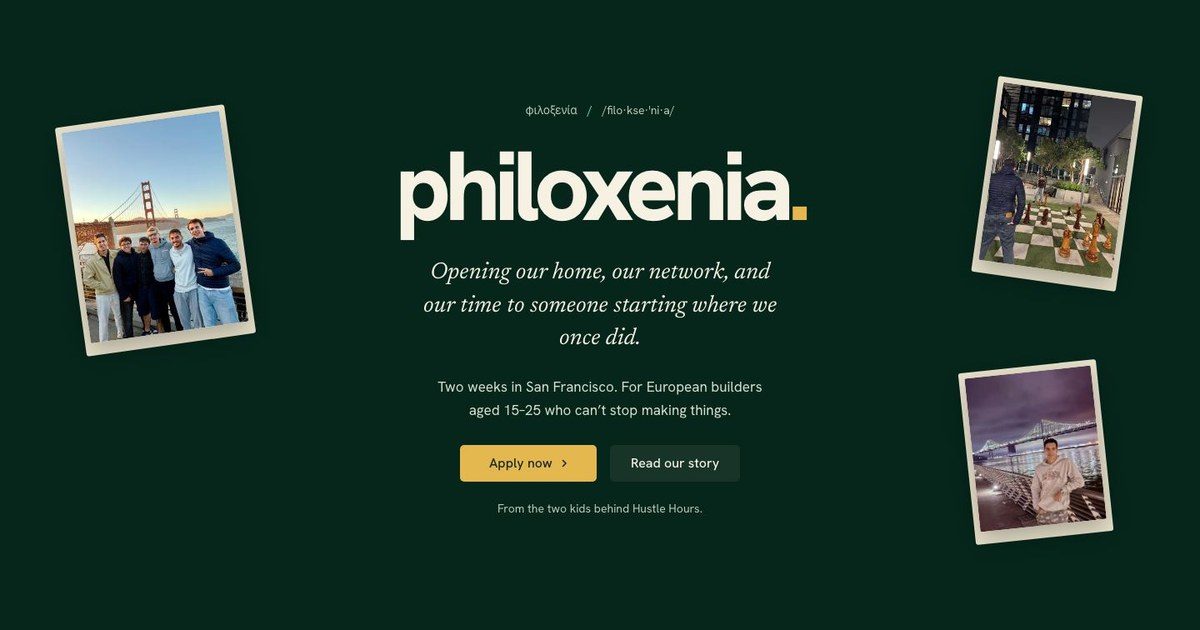
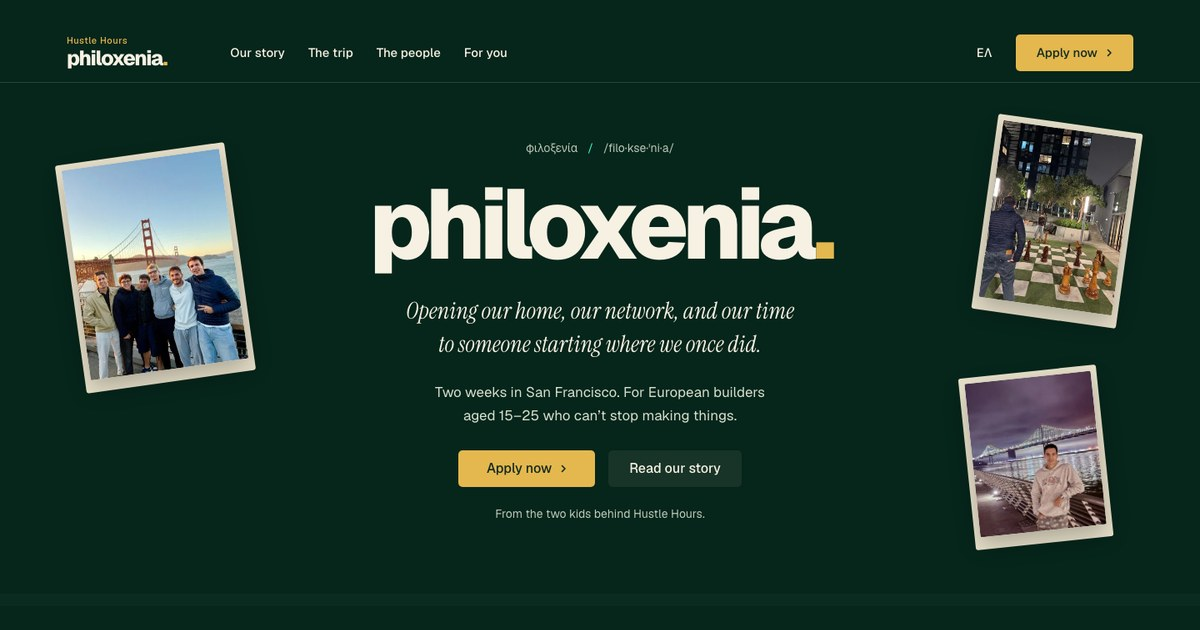
changes

diff --git a/src/styles/global.css b/src/styles/global.css
@@ -1,16 +1,20 @@
 @import "tailwindcss";
 
 @font-face {
-  font-family: "Newsreader"; font-style: normal; font-weight: 400 700; font-display: swap;
-  src: url("@fontsource-variable/newsreader/files/newsreader-latin-wght-normal.woff2") format("woff2");
+  font-family: "Geist"; font-style: normal; font-weight: 100 900; font-display: swap;
+  src: url("@fontsource-variable/geist/files/geist-latin-wght-normal.woff2") format("woff2");
 }
 @font-face {
-  font-family: "Newsreader"; font-style: italic; font-weight: 400 700; font-display: swap;
-  src: url("@fontsource-variable/newsreader/files/newsreader-latin-wght-italic.woff2") format("woff2");
+  font-family: "Geist"; font-style: italic; font-weight: 100 900; font-display: swap;
+  src: url("@fontsource-variable/geist/files/geist-latin-wght-italic.woff2") format("woff2");
 }
 @font-face {
-  font-family: "Hanken Grotesk"; font-style: normal; font-weight: 400 800; font-display: swap;
-  src: url("@fontsource-variable/hanken-grotesk/files/hanken-grotesk-latin-wght-normal.woff2") format("woff2");
+  font-family: "Instrument Serif"; font-style: normal; font-weight: 400; font-display: swap;
+  src: url("@fontsource/instrument-serif/files/instrument-serif-latin-400-normal.woff2") format("woff2");
+}
+@font-face {
+  font-family: "Instrument Serif"; font-style: italic; font-weight: 400; font-display: swap;
+  src: url("@fontsource/instrument-serif/files/instrument-serif-latin-400-italic.woff2") format("woff2");
 }
 
 /* The original mint and gold, a dark green room, and paper from a shoebox of photos. */
@@ -19,8 +23,8 @@ html:root {
   --p-accent: #e4b84f; --p-accent-ink: #13291e; --p-action: #e4b84f; --p-action-ink: #13291e;
   --p-inv-bg: #0c3023; --p-inv-surface: #143a2a; --p-inv-ink: #f6f1e3; --p-inv-muted: #bac9b8;
   --p-inv-accent: #3dffc0; --p-inv-accent-ink: #06251b; --p-inv-action: #e4b84f; --p-inv-action-ink: #13291e;
-  --font-display: "Hanken Grotesk", system-ui, sans-serif;
-  --font-text: "Hanken Grotesk", system-ui, sans-serif;
+  --font-display: "Geist", system-ui, sans-serif;
+  --font-text: "Geist", system-ui, sans-serif;
   --display-weight: 700; --display-tracking: -.045em; --display-tracking-xl: -.06em; --ly-scale: 1;
   --r-lg: 8px; --r-btn: 5px;
 }
@@ -53,7 +57,7 @@ html[data-type="service"] main > section.hero--scrapbook { padding-top: 120px; p
 .hero__kicker > span { color: #3dffc0; }
 .hero--scrapbook h1 { font-family: var(--font-text); font-size: clamp(72px,8.2vw,118px); font-weight: 800; letter-spacing: -.065em; line-height: 1.04; margin-top: 18px; }
 .hero--scrapbook h1 > span { color: #e4b84f; }
-.hero-definition { font: italic 400 28px/1.4 "Newsreader",Georgia,serif; max-width: 470px; margin: 24px auto 0; }
+.hero-definition { font: italic 400 28px/1.4 "Instrument Serif",Georgia,serif; max-width: 470px; margin: 24px auto 0; }
 .hero--scrapbook .hero__lead { font-size: 17px; line-height: 1.65; max-width: 430px; margin: 24px auto 0; color: #d6dfce; }
 .hero--scrapbook .btn-row { justify-content: center; margin-top: 28px; gap: 16px; }
 .hero--scrapbook .btn--primary { min-width: 164px; }
@@ -85,7 +89,7 @@ html[data-type="service"] main > section.hero--scrapbook { padding-top: 120px; p
 .story-section { background: #0a2c20; }
 .story-copy { position: relative; display: grid; gap: 18px; color: #173729; background: #eae3cf; padding: 32px; border-radius: 3px; transform: rotate(-1deg); box-shadow: 0 8px 20px #0002; }
 .story-copy::before { content: ''; position: absolute; top: -10px; left: calc(50% - 40px); width: 80px; height: 24px; background: #d8caaab3; transform: rotate(3deg); }
-.story-copy p { font: 400 23px/1.45 "Newsreader",Georgia,serif; max-width: 45ch; }
+.story-copy p { font: 400 23px/1.45 "Instrument Serif",Georgia,serif; max-width: 45ch; }
 .story-copy .letter-salutation { font: 600 16px/1.5 var(--font-text); }
 .story-copy .letter-signature { font-style: italic; font-size: 26px; margin-top: 4px; }
 .story-photos { display: grid; gap: 22px; max-width: 430px; width: 100%; justify-self: end; margin: 0 10px 0 0; }
@@ -130,7 +134,7 @@ footer.closing .closing__cta { position: relative; display: flex; align-items: c
 .invitation-copy { position: relative; z-index: 2; max-width: 800px; padding: 56px 90px; text-align: center; }
 .invitation-copy::before { content: ''; position: absolute; z-index: -1; inset: 0 -10%; background: radial-gradient(ellipse,#06251bf2 0%,#06251bba 48%,#06251b00 72%); }
 .invitation-copy h2 { font-size: clamp(64px,7.4vw,106px); font-weight: 800; letter-spacing: -.045em; line-height: .98; text-transform: uppercase; }
-.invitation-copy p { font: italic 400 26px/1.5 "Newsreader",Georgia,serif; margin: 28px auto; max-width: 520px; }
+.invitation-copy p { font: italic 400 26px/1.5 "Instrument Serif",Georgia,serif; margin: 28px auto; max-width: 520px; }
 .invitation-copy .btn { min-width: 190px; height: 50px; }
 .photo-collage--door { opacity: .68; }
 .photo-collage--door .collage-photo--1 { width: 235px; left: 10px; top: 18px; transform: rotate(-8deg); }
@@ -258,3 +262,23 @@ footer.closing .closing__links { gap: 24px; padding-top: 24px; border-top: 1px s
   .footer__legal a { font-size: 13px; }
 }
 @media (prefers-reduced-motion:reduce) { html { scroll-behavior: auto; } }
+
+/* The one new visual retained from the polish pass: a paper invitation. */
+.trip-heading { display: grid; grid-template-columns: minmax(0,1fr) 300px; align-items: center; gap: 40px; }
+.invitation-ticket { position: relative; transform: rotate(3deg); padding: 18px 20px; color: #1b3c2b; background: #eee6ce; border-radius: 5px; box-shadow: 0 10px 30px #0002; }
+.invitation-ticket::before, .invitation-ticket::after { content: ''; position: absolute; width: 16px; height: 16px; top: 50%; margin-top: -8px; border-radius: 50%; background: #06251b; }
+.invitation-ticket::before { left: -8px; }
+.invitation-ticket::after { right: -8px; }
+.ticket-top, .ticket-bottom { display: flex; justify-content: space-between; align-items: center; gap: 8px; font-size: 11px; }
+.ticket-top { border-bottom: 1px dashed #80947980; padding-bottom: 14px; }
+.ticket-top > span:first-child { font-size: 14px; font-weight: 650; letter-spacing: -.06em; }
+.ticket-top > span:last-child { font: italic 400 16px/1.2 "Instrument Serif",Georgia,serif; }
+.ticket-journey { display: flex; align-items: center; justify-content: space-between; gap: 10px; padding-block: 20px; font-size: 13px; font-weight: 550; }
+.ticket-journey svg { flex: 0 1 40px; color: #67866b; }
+.ticket-bottom { border-top: 1px dashed #80947980; padding-top: 12px; color: #50664c; }
+@media (min-width:640px) { .invitation-copy h2 { font-size: clamp(64px,6.5vw,94px); } }
+@media (min-width:640px) and (max-width:1023px) { .trip-heading { grid-template-columns: minmax(0,1fr) 250px; gap: 28px; } }
+@media (max-width:639px) {
+  .trip-heading { grid-template-columns: minmax(0,1fr); gap: 28px; }
+  .invitation-ticket { width: min(100% - 12px,310px); justify-self: center; transform: rotate(2deg); }
+}

diff --git a/README.md b/README.md
@@ -22,3 +22,5 @@ The application buttons link to the existing production application at https://p
 Content and all photographs come from the original website; credits are at `/credits/`. Fonts are hosted locally. The expired application countdown was removed; application availability is left to the existing application service.
 
 The design uses the design-taste-frontend system and its motion assets in `public/assets/`. The user's original dark-green, gold and mint identity drives a playful scrapbook direction: candid photos in paper frames, the founders' story as a personal letter, and the original historical-founder collages around “Could this be you?” and “The door is open.” Layouts and content are Astro components; Tailwind provides utility classes. Sections follow their content height, and photographs retain their original aspect ratios. Decorative static rotations and layered photos follow the user's supplied reference. Motion falls back to a static experience when JavaScript is unavailable or reduced motion is enabled.
+
+The current font pair is Geist and Instrument Serif, hosted locally. The invitation ticket is an Astro component. The experimental React Bits stack, chapter badges, mixed-font wordmark and added scroll effects were removed following design feedback; the previously approved scrapbook compositions are retained.

diff --git a/DESIGN-REPORT.md b/DESIGN-REPORT.md
@@ -249,3 +249,6 @@ perf dist/index.html @ 390px
 
 SUMMARY dist/index.html: 0 FAIL, 0 WARN  -> PASS
 ```
+
+
+Latest design correction: restored the approved scrapbook compositions after the expanded React Bits pass was rejected. Retained only the invitation ticket from that pass and the requested Geist/Instrument Serif font families. Removed React runtime dependencies, the interactive album, chapter markers, mixed-font logo and new scroll effects. The restoration was reviewed at 1440px and 390px. Production build and Astro type checks pass. The earlier strict style-gate exceptions above remain intentional; its results describe the prior full audit.
